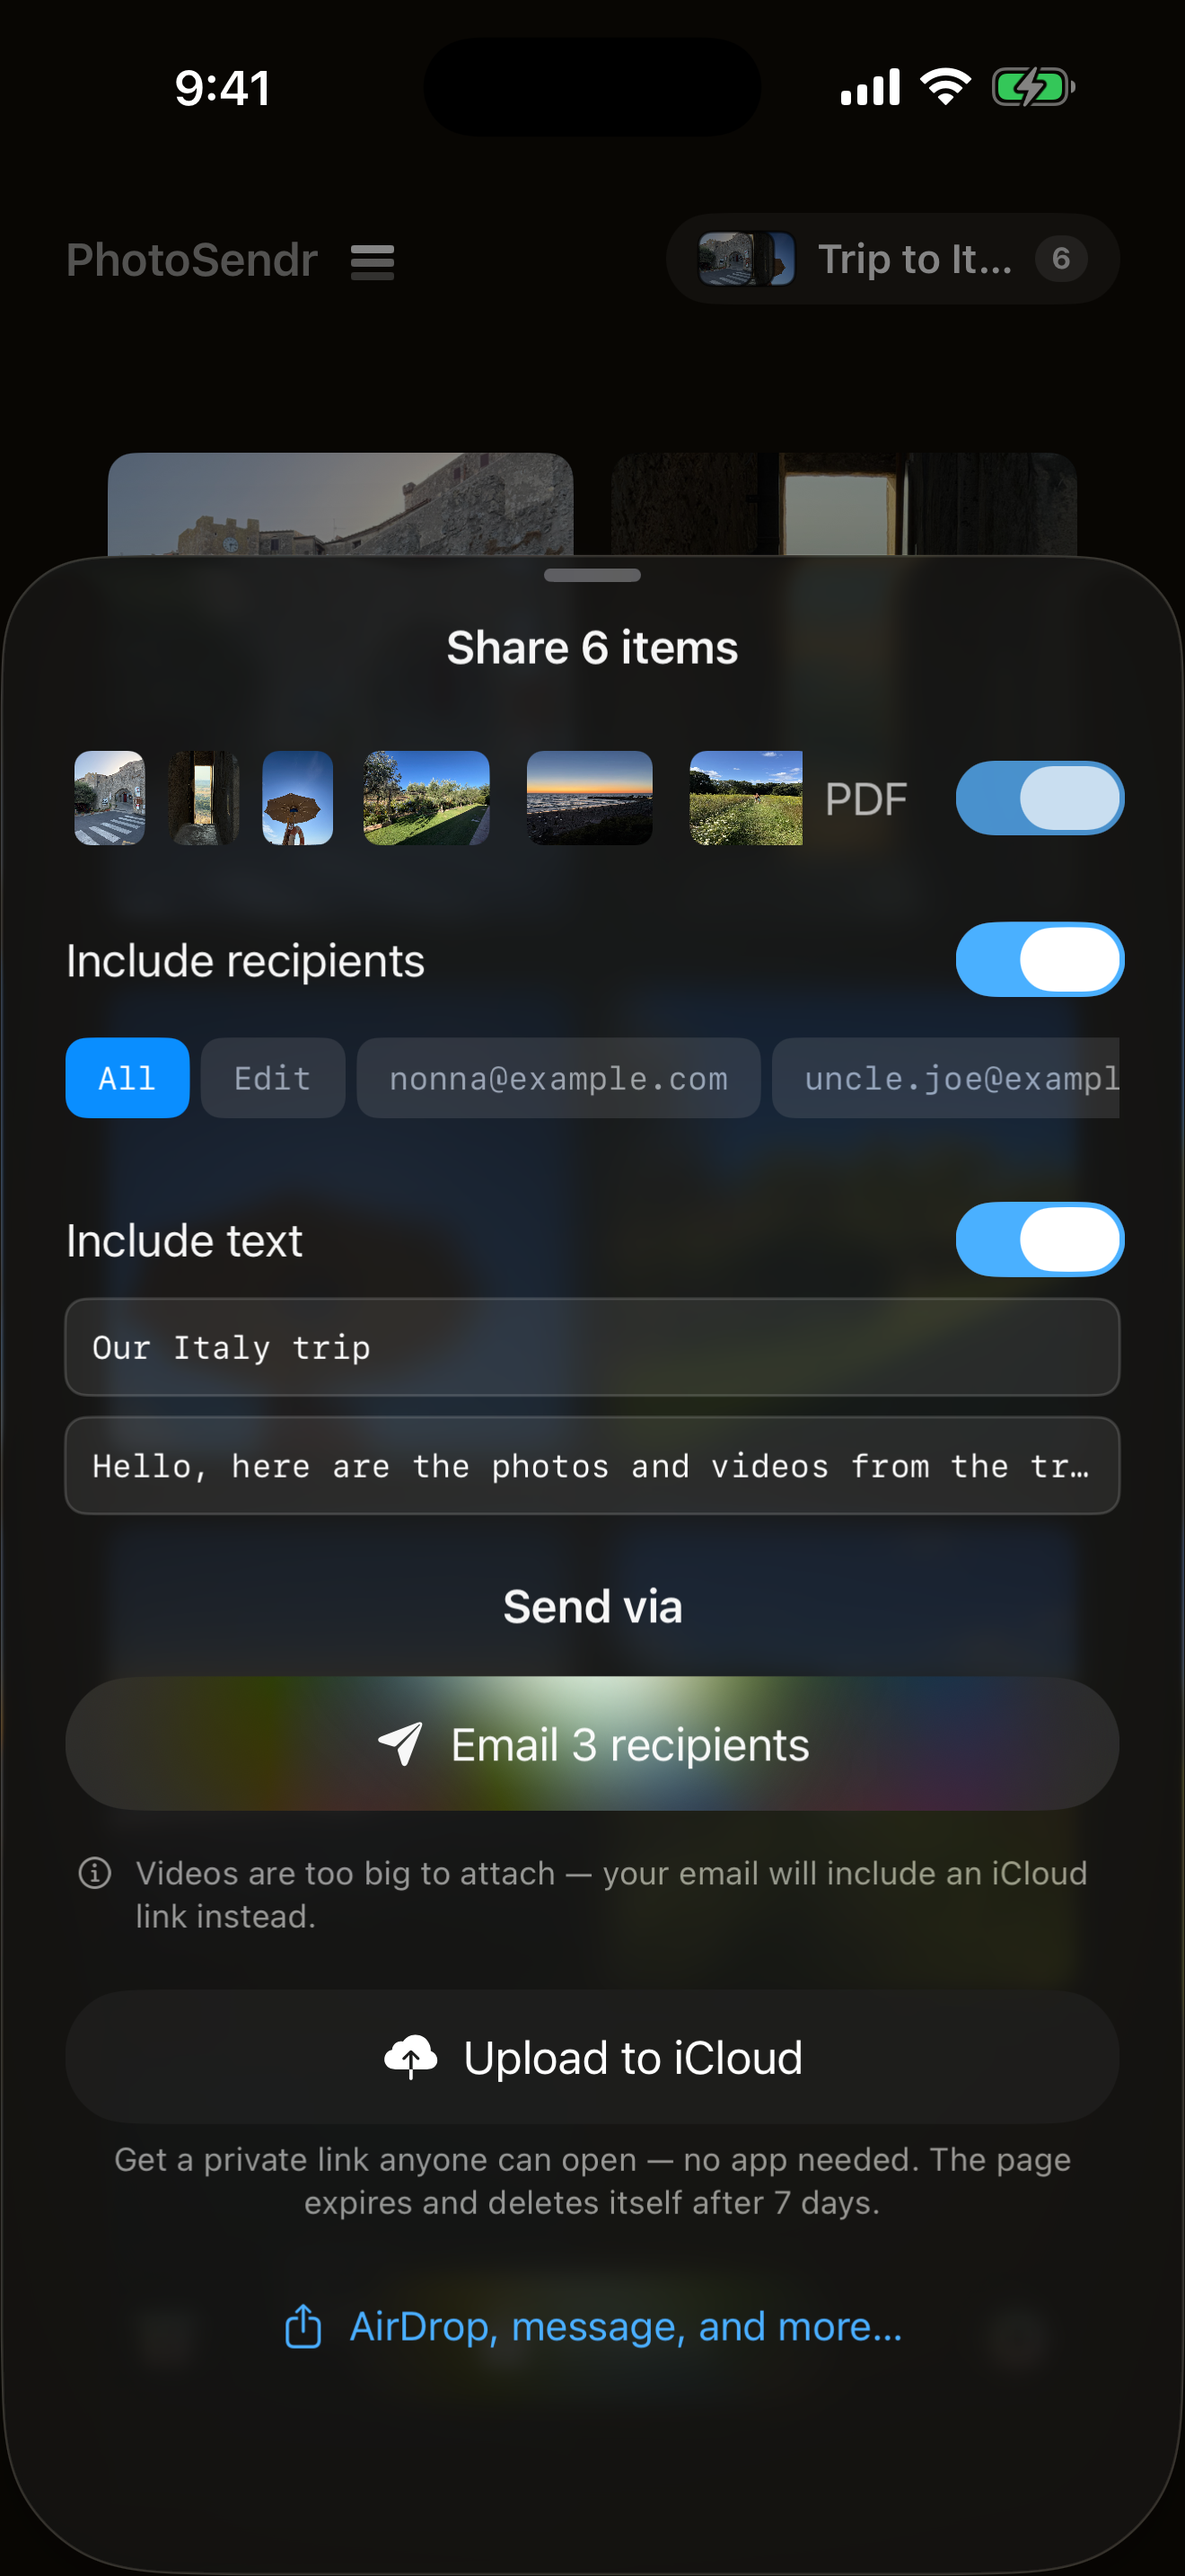
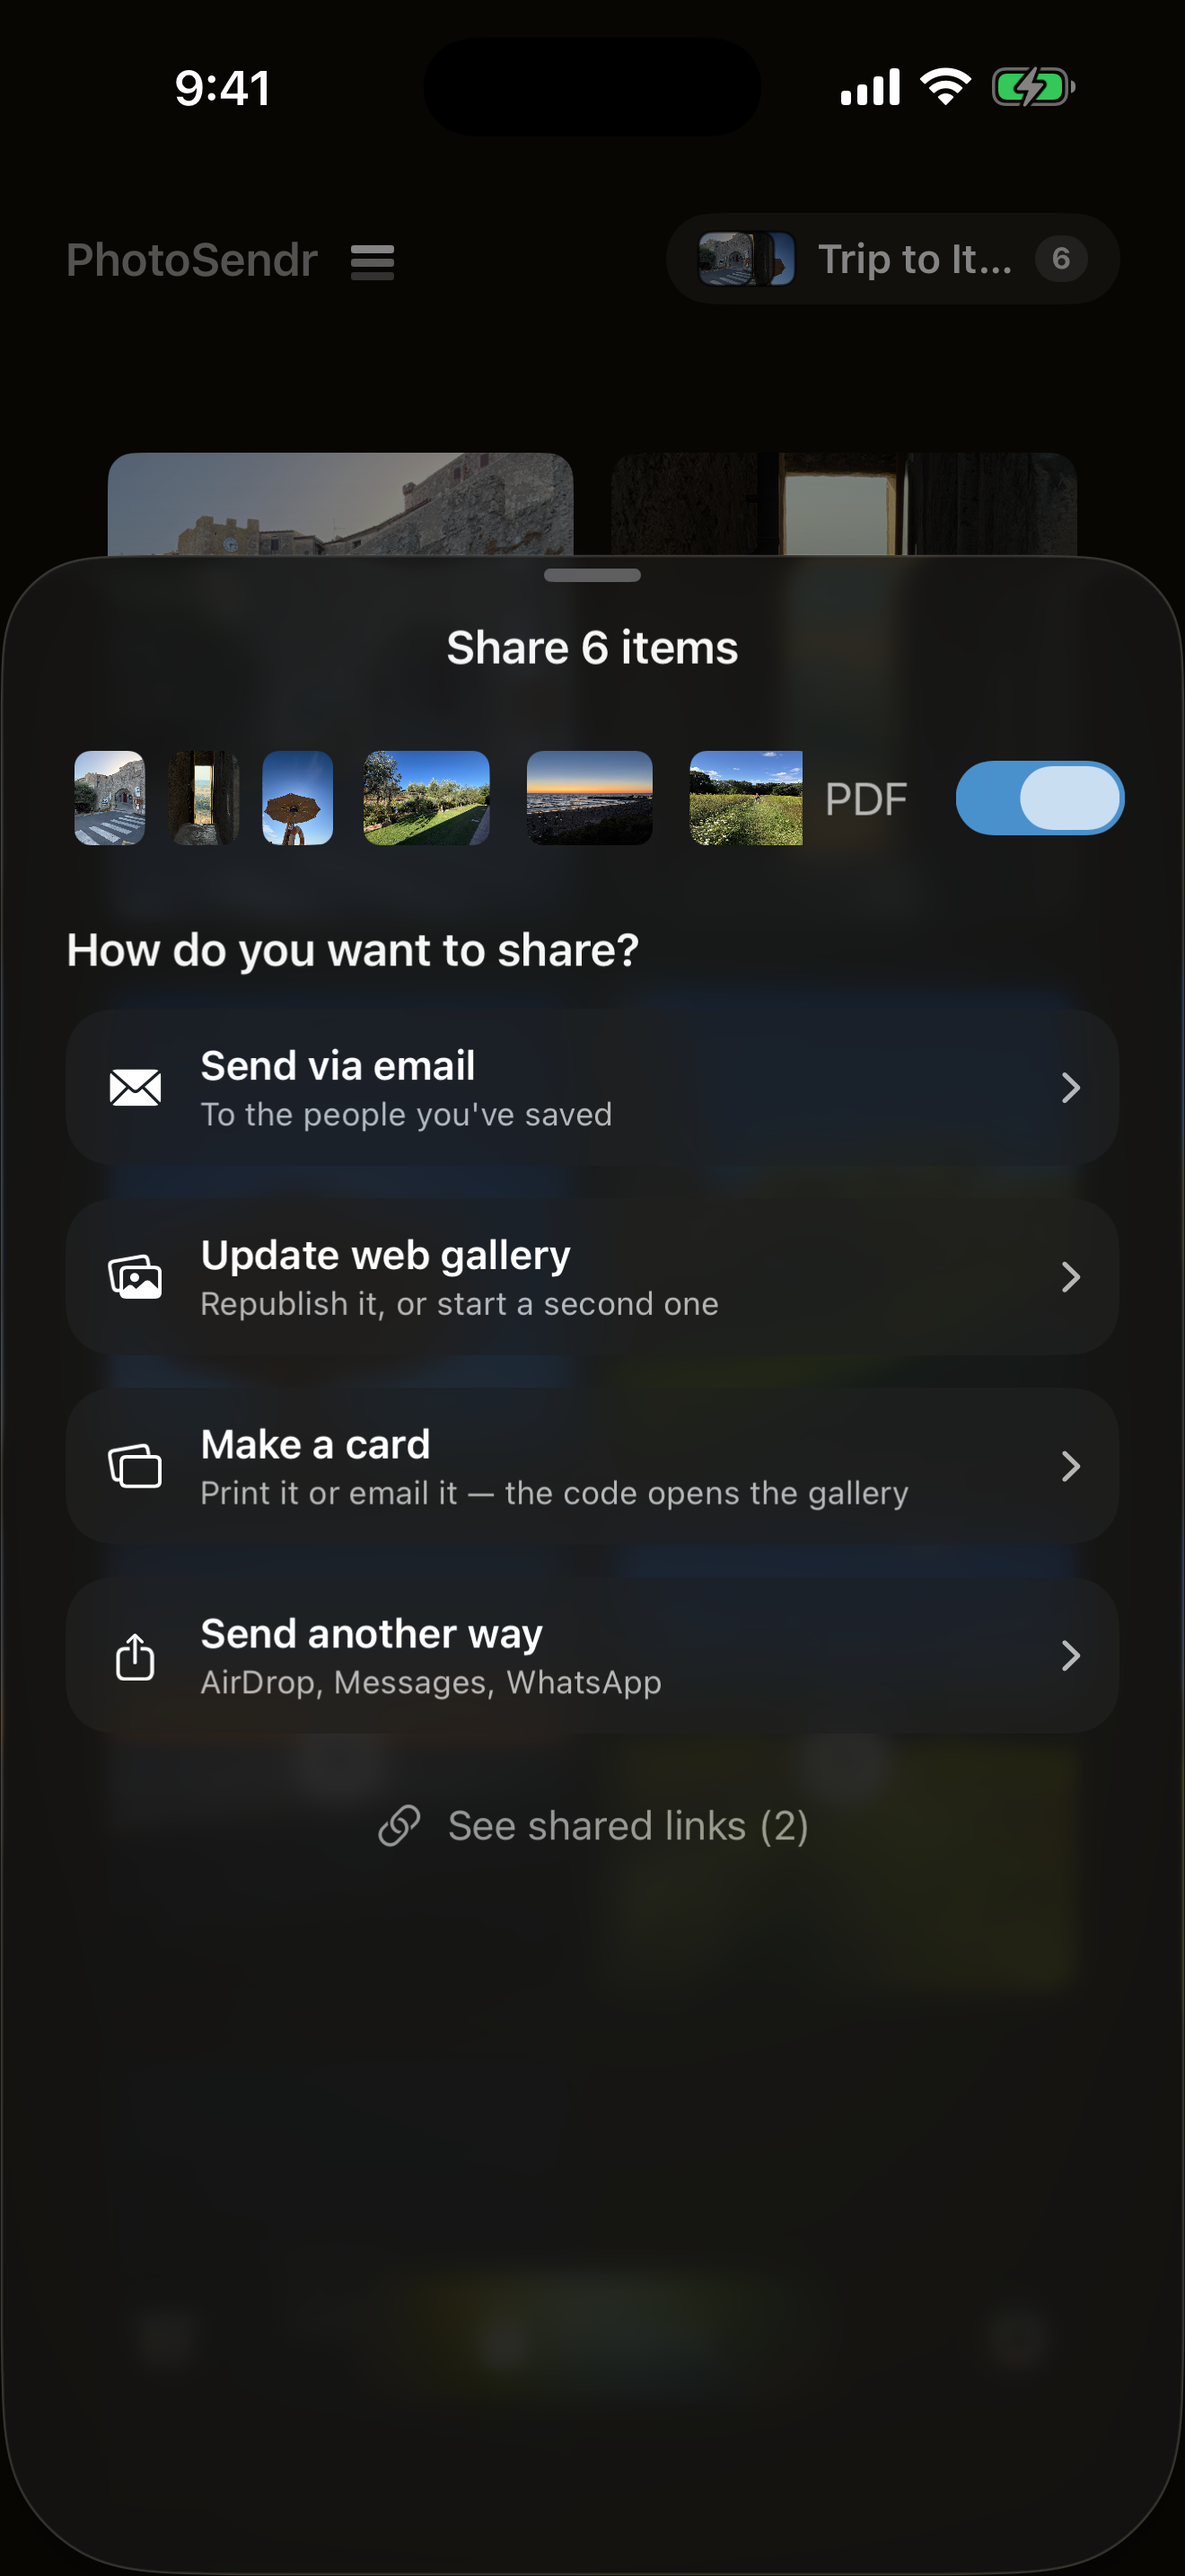
Refresh the share screenshot for the new sheet
shot-share.png showed "How do you want to send?" and the retired row
titles. Same 6.9 capture as the App Store set, and the alt text and the
section lead now describe what the screen actually says.

Claude-Session: https://claude.ai/code/session_01KbdXL5XuxYXfPZWYjYfMxU

diff --git a/index.html b/index.html
@@ -499,11 +499,11 @@ in a tap — by email, PDF, or link.</p>
 <section class="gallery">
   <div class="wrap">
     <h2>Straight from the app</h2>
-    <p>Real screens — the grid holding photos and a video, your sets one tap away, the share sheet with its PDF toggle, and a shared link open on an iPad.</p>
+    <p>Real screens — the grid holding photos and a video, your sets one tap away, the share sheet asking how you want to send it, and a shared gallery open on an iPad.</p>
     <div class="shots">
       <div class="shotframe"><img src="shot-grid.png" alt="The PhotoSendr grid on iPhone with travel photos and two videos" loading="lazy"></div>
       <div class="shotframe"><img src="shot-sets.png" alt="The searchable set switcher open, showing Trip to Italy, Family, and Construction sets with thumbnails" loading="lazy"></div>
-      <div class="shotframe"><img src="shot-share.png" alt="Share sheet with PDF toggle" loading="lazy"></div>
+      <div class="shotframe"><img src="shot-share.png" alt="The share sheet asking how you want to share, with four choices: send via email, update web gallery, make a card, or send another way" loading="lazy"></div>
       <div class="shotframe pad"><img src="shot-viewer-ipad.png" alt="A shared PhotoSendr link open in Safari on iPad" loading="lazy"></div>
     </div>
   </div>
